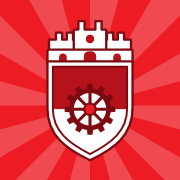
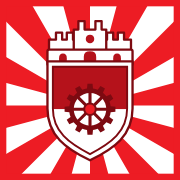
App-Symbol: weiße Streifen und roter Rahmen
Claude-Session: https://claude.ai/code/session_01DrWw2TQ968SBrrNuXSF9Uu

diff --git a/CLAUDE.md b/CLAUDE.md
@@ -143,7 +143,7 @@ Einkäufe, die schon als Ausgabe eingetragen wurden, haben `expensed: true`.
 ### Allgemein
 - Name **„Projekt Kölle“**, Logo (seit 4. Nov. 2026, Wunsch von Lukas nach einem Foto des Mosaiks in
   Ehrenfeld): **Ehrenfelder Wappen** – Schild mit Dreiturm-Krone und Zahnrad, oben rot, unten weiß,
-  vor rot-weißem Strahlenkranz (`icons/icon.svg`; PNGs daraus gerendert, `apple-touch-icon.png` ohne
+  vor rot-weißem Strahlenkranz (weiße Streifen, roter Rahmen – wie das Mosaik; `icons/icon.svg`; PNGs daraus gerendert, `apple-touch-icon.png` ohne
   runde Ecken, weil iOS selbst rundet). Vorher: Kölner Dom.
 - Design konsequent in den **Kölner Stadtfarben Rot und Weiß** (`--brand: #ed1c24`, kräftiges Rot wie beim 1. FC Köln,
   rote Kopfzeile, weißer Hintergrund, rotes Logo). Anfangs war es grün – Lukas wollte
